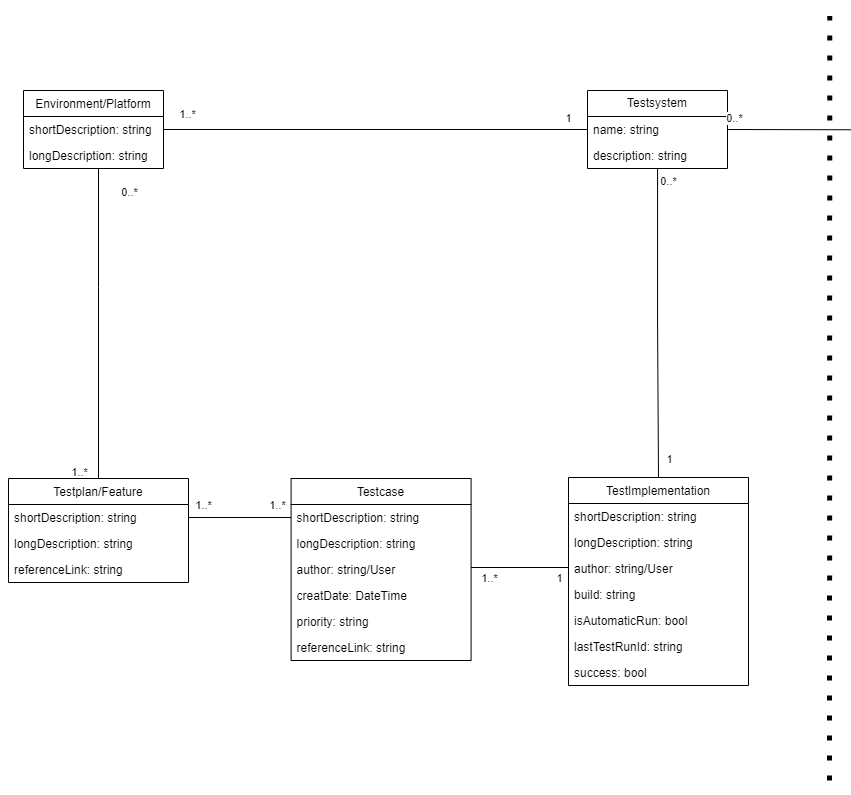
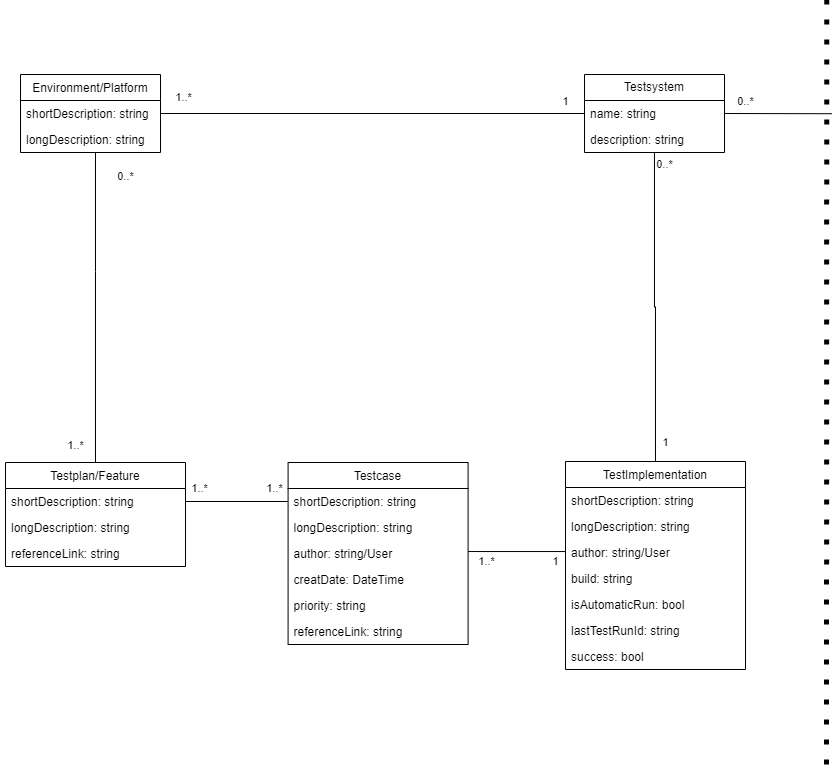
improved picture quality of domain model parts

diff --git a/Thesis/thesis.tex b/Thesis/thesis.tex
@@ -617,7 +617,7 @@
 	
 	\begin{figure}[H]
 		\centering
-		\includegraphics[scale=0.5]{assets/TCMS_DomainModel_part1.png}
+		\includegraphics[scale=0.6]{assets/TCMS_DomainModel_part1.png}
 		\caption{Domain-Model (Teil 1) aus den Anforderungen von \autoref{chapter:requiremnts}}
 		\label{fig:domainModelPart1}
 	\end{figure}
@@ -626,12 +626,12 @@
 
 	\begin{figure}[H]
 		\centering
-		\includegraphics[scale=0.5]{assets/TCMS_DomainModel_part2.png}
+		\includegraphics[scale=0.6]{assets/TCMS_DomainModel_part2.png}
 		\caption{Domain-Model (Teil 2) aus den Anforderungen von \autoref{chapter:requiremnts}}
 		\label{fig:domainModelPart2}
 	\end{figure}
 
-	\todo{More description to figure part 1}
+	\todo{More description to figure part 2}
 	
 	\subsection{Featurestruktur}
 	\todo{Proper Featurestruktur Description}
